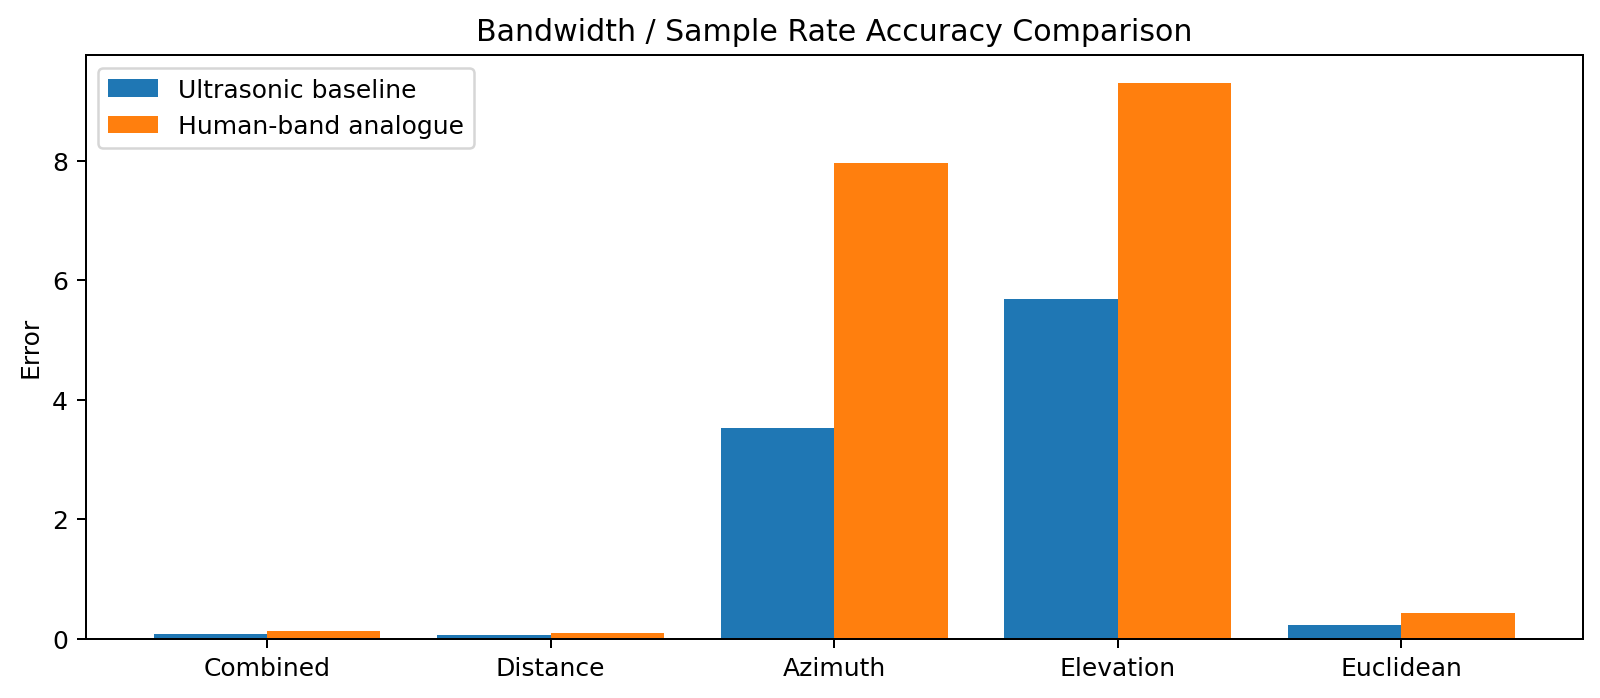
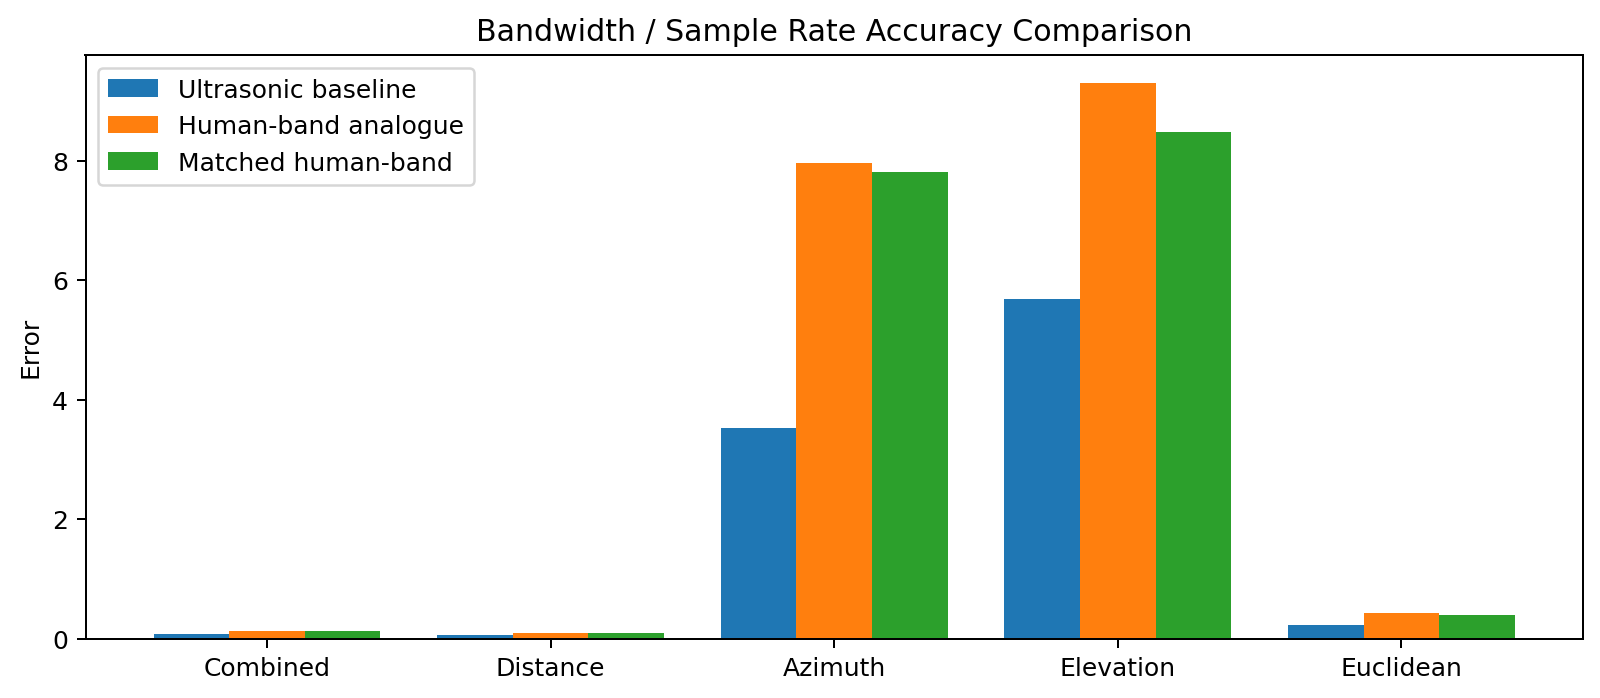
human based cochlea

diff --git a/stages/cochlea_explained.py b/stages/cochlea_explained.py
@@ -242,13 +242,35 @@ def _human_band_config(base: GlobalConfig) -> GlobalConfig:
     return GlobalConfig(**payload)
 
 
-def _run_human_band_system_experiment(base_config: GlobalConfig, outputs: OutputPaths, figure_dir: Path) -> dict:
-    result_path = figure_dir / "human_band_experiment.json"
+def _matched_human_band_config(base: GlobalConfig) -> GlobalConfig:
+    payload = {**base.__dict__}
+    payload.update(
+        {
+            "sample_rate_hz": 64_000,
+            "chirp_start_hz": 18_000.0,
+            "chirp_end_hz": 2_000.0,
+            "cochlea_low_hz": 2_000.0,
+            "cochlea_high_hz": 20_000.0,
+        }
+    )
+    return GlobalConfig(**payload)
+
+
+def _run_band_system_experiment(
+    band_config: GlobalConfig,
+    outputs: OutputPaths,
+    figure_dir: Path,
+    *,
+    result_name: str,
+    signal_name: str,
+    cochlea_name: str,
+    title_prefix: str,
+) -> dict:
+    result_path = figure_dir / result_name
     if result_path.exists():
         return json.loads(result_path.read_text(encoding="utf-8"))
 
-    human_config = _human_band_config(base_config)
-    context = StageContext(config=human_config, device=torch.device("cpu"), outputs=outputs)
+    context = StageContext(config=band_config, device=torch.device("cpu"), outputs=outputs)
     params, baseline_label = _baseline_reference_params(context)
     spec = _combined_all_spec()
     training_config = EnhancedTrainingConfig(
@@ -258,7 +280,7 @@ def _run_human_band_system_experiment(base_config: GlobalConfig, outputs: Output
         scheduler_patience=3,
     )
 
-    seed_everything(human_config.seed)
+    seed_everything(band_config.seed)
     prep_start = time.perf_counter()
     data, prep_profile = _prepare_profiled_experiment_data(context, params, training_config.dataset_mode)
     target_bundle = _prepare_target_bundle(data)
@@ -291,8 +313,8 @@ def _run_human_band_system_experiment(base_config: GlobalConfig, outputs: Output
     evaluation_seconds = time.perf_counter() - eval_start
     total_seconds = prep_seconds + training_seconds + evaluation_seconds
 
-    human_example = simulate_echo_batch(
-        human_config,
+    example_batch = simulate_echo_batch(
+        band_config,
         torch.tensor([1.4], device=context.device),
         torch.tensor([18.0], device=context.device),
         torch.tensor([12.0], device=context.device),
@@ -300,51 +322,51 @@ def _run_human_band_system_experiment(base_config: GlobalConfig, outputs: Output
         add_noise=False,
         include_elevation_cues=True,
     )
-    human_filter_stages = cochlea_filterbank_stages(
-        human_example.receive[0, 0].unsqueeze(0),
-        sample_rate_hz=human_config.sample_rate_hz,
-        num_channels=human_config.num_cochlea_channels,
-        low_hz=human_config.cochlea_low_hz,
-        high_hz=human_config.cochlea_high_hz,
-        filter_bandwidth_sigma=human_config.filter_bandwidth_sigma,
-        envelope_lowpass_hz=human_config.envelope_lowpass_hz,
-        downsample=human_config.envelope_downsample,
+    filter_stages = cochlea_filterbank_stages(
+        example_batch.receive[0, 0].unsqueeze(0),
+        sample_rate_hz=band_config.sample_rate_hz,
+        num_channels=band_config.num_cochlea_channels,
+        low_hz=band_config.cochlea_low_hz,
+        high_hz=band_config.cochlea_high_hz,
+        filter_bandwidth_sigma=band_config.filter_bandwidth_sigma,
+        envelope_lowpass_hz=band_config.envelope_lowpass_hz,
+        downsample=band_config.envelope_downsample,
     )
-    human_lif = lif_encode_stages(
-        human_filter_stages["cochleagram"],
-        threshold=human_config.spike_threshold,
-        beta=human_config.spike_beta,
+    lif_stages = lif_encode_stages(
+        filter_stages["cochleagram"],
+        threshold=band_config.spike_threshold,
+        beta=band_config.spike_beta,
     )
-    human_start_ms = float(human_example.delays_s[0, 0].item() * 1_000.0)
-    human_end_ms = human_start_ms + human_config.chirp_duration_s * 1_000.0
-    human_xlim_ms = (
-        max(0.0, human_start_ms - 1.0),
-        min(human_config.signal_duration_s * 1_000.0, human_end_ms + 1.0),
+    echo_start_ms = float(example_batch.delays_s[0, 0].item() * 1_000.0)
+    echo_end_ms = echo_start_ms + band_config.chirp_duration_s * 1_000.0
+    xlim_ms = (
+        max(0.0, echo_start_ms - 1.0),
+        min(band_config.signal_duration_s * 1_000.0, echo_end_ms + 1.0),
     )
     save_waveform_and_spectrogram(
-        human_example.receive[0, 0],
-        human_config.sample_rate_hz,
-        figure_dir / "human_example_signal.png",
-        "Human-Band Example Receive Waveform And Spectrogram",
+        example_batch.receive[0, 0],
+        band_config.sample_rate_hz,
+        figure_dir / signal_name,
+        f"{title_prefix} Receive Waveform And Spectrogram",
     )
     save_cochlea_plot(
-        human_filter_stages["cochleagram"][0],
-        human_lif["spikes"][0],
-        human_config.envelope_rate_hz,
-        figure_dir / "human_cochleagram_spikes.png",
-        "Human-Band Cochleagram And Spike Raster",
-        xlim_ms=human_xlim_ms,
+        filter_stages["cochleagram"][0],
+        lif_stages["spikes"][0],
+        band_config.envelope_rate_hz,
+        figure_dir / cochlea_name,
+        f"{title_prefix} Cochleagram And Spike Raster",
+        xlim_ms=xlim_ms,
     )
 
     result = {
         "baseline_label": baseline_label,
         "config": {
-            "sample_rate_hz": human_config.sample_rate_hz,
-            "chirp_start_hz": human_config.chirp_start_hz,
-            "chirp_end_hz": human_config.chirp_end_hz,
-            "cochlea_low_hz": human_config.cochlea_low_hz,
-            "cochlea_high_hz": human_config.cochlea_high_hz,
-            "envelope_rate_hz": human_config.envelope_rate_hz,
+            "sample_rate_hz": band_config.sample_rate_hz,
+            "chirp_start_hz": band_config.chirp_start_hz,
+            "chirp_end_hz": band_config.chirp_end_hz,
+            "cochlea_low_hz": band_config.cochlea_low_hz,
+            "cochlea_high_hz": band_config.cochlea_high_hz,
+            "envelope_rate_hz": band_config.envelope_rate_hz,
         },
         "training_config": {
             "dataset_mode": training_config.dataset_mode,
@@ -370,12 +392,36 @@ def _run_human_band_system_experiment(base_config: GlobalConfig, outputs: Output
         "val_metrics": {key: format_float(value) for key, value in val_eval.metrics.items()},
         "test_metrics": {key: format_float(value) for key, value in test_eval.metrics.items()},
         "artifacts": {
-            "human_example_signal": str(figure_dir / "human_example_signal.png"),
-            "human_cochleagram_spikes": str(figure_dir / "human_cochleagram_spikes.png"),
+            "example_signal": str(figure_dir / signal_name),
+            "cochleagram_spikes": str(figure_dir / cochlea_name),
         },
     }
     save_json(result_path, result)
     return result
+
+
+def _run_human_band_system_experiment(base_config: GlobalConfig, outputs: OutputPaths, figure_dir: Path) -> dict:
+    return _run_band_system_experiment(
+        _human_band_config(base_config),
+        outputs,
+        figure_dir,
+        result_name="human_band_experiment.json",
+        signal_name="human_example_signal.png",
+        cochlea_name="human_cochleagram_spikes.png",
+        title_prefix="Human-Band Example",
+    )
+
+
+def _run_matched_human_band_system_experiment(base_config: GlobalConfig, outputs: OutputPaths, figure_dir: Path) -> dict:
+    return _run_band_system_experiment(
+        _matched_human_band_config(base_config),
+        outputs,
+        figure_dir,
+        result_name="human_matched_band_experiment.json",
+        signal_name="human_matched_example_signal.png",
+        cochlea_name="human_matched_cochleagram_spikes.png",
+        title_prefix="Matched Human-Band Example",
+    )
 
 
 def run_cochlea_explained(config: GlobalConfig, outputs: OutputPaths) -> dict[str, str]:
@@ -475,6 +521,7 @@ def run_cochlea_explained(config: GlobalConfig, outputs: OutputPaths) -> dict[st
 
     baseline_system_result = _load_saved_round2_combined_baseline(outputs)
     human_band_result = _run_human_band_system_experiment(config, outputs, figure_dir)
+    matched_human_band_result = _run_matched_human_band_system_experiment(config, outputs, figure_dir)
     save_grouped_bar_chart(
         ["Prep", "Training", "Evaluation", "Total"],
         {
@@ -489,6 +536,12 @@ def run_cochlea_explained(config: GlobalConfig, outputs: OutputPaths) -> dict[st
                 float(human_band_result["timings"]["training_seconds"]),
                 float(human_band_result["timings"]["evaluation_seconds"]),
                 float(human_band_result["timings"]["total_seconds"]),
+            ],
+            "Matched human-band": [
+                float(matched_human_band_result["timings"]["data_prep_seconds"]),
+                float(matched_human_band_result["timings"]["training_seconds"]),
+                float(matched_human_band_result["timings"]["evaluation_seconds"]),
+                float(matched_human_band_result["timings"]["total_seconds"]),
             ],
         },
         figure_dir / "bandwidth_runtime_comparison.png",
@@ -512,6 +565,13 @@ def run_cochlea_explained(config: GlobalConfig, outputs: OutputPaths) -> dict[st
                 float(human_band_result["test_metrics"]["elevation_mae_deg"]),
                 float(human_band_result["test_metrics"]["euclidean_error_m"]),
             ],
+            "Matched human-band": [
+                float(matched_human_band_result["test_metrics"]["combined_error"]),
+                float(matched_human_band_result["test_metrics"]["distance_mae_m"]),
+                float(matched_human_band_result["test_metrics"]["azimuth_mae_deg"]),
+                float(matched_human_band_result["test_metrics"]["elevation_mae_deg"]),
+                float(matched_human_band_result["test_metrics"]["euclidean_error_m"]),
+            ],
         },
         figure_dir / "bandwidth_accuracy_comparison.png",
         "Bandwidth / Sample Rate Accuracy Comparison",
@@ -528,6 +588,18 @@ def run_cochlea_explained(config: GlobalConfig, outputs: OutputPaths) -> dict[st
     )
     training_speedup = float(baseline_system_result["timings"]["training_seconds"]) / max(
         float(human_band_result["timings"]["training_seconds"]),
+        1e-6,
+    )
+    matched_runtime_speedup = float(baseline_system_result["timings"]["total_seconds"]) / max(
+        float(matched_human_band_result["timings"]["total_seconds"]),
+        1e-6,
+    )
+    matched_prep_speedup = float(baseline_system_result["timings"]["data_prep_seconds"]) / max(
+        float(matched_human_band_result["timings"]["data_prep_seconds"]),
+        1e-6,
+    )
+    matched_training_speedup = float(baseline_system_result["timings"]["training_seconds"]) / max(
+        float(matched_human_band_result["timings"]["training_seconds"]),
         1e-6,
     )
 
@@ -633,8 +705,10 @@ def run_cochlea_explained(config: GlobalConfig, outputs: OutputPaths) -> dict[st
         "Protocol:",
         "- Ultrasonic baseline: saved short-data round-2 combined-all result using the existing `20 kHz to 90 kHz` cochlea, `80 kHz to 20 kHz` chirp, and `256 kHz` sample rate.",
         "- Human-band analogue: fresh rerun of the same short-data combined-all model with cochlea range `20 Hz to 20 kHz`, sample rate `64 kHz`, and a practical downward FM chirp `18 kHz to 2 kHz`.",
+        "- Matched human-band analogue: second fresh rerun with the same `64 kHz` sample rate and `18 kHz to 2 kHz` chirp, but with the cochlea restricted to the active signal band `2 kHz to 20 kHz`.",
         "- The lower chirp edge was not set literally to `20 Hz` because a `3 ms` chirp cannot meaningfully encode 20 Hz content; one 20 Hz period is `50 ms`.",
         "- Same dataset size and training budget: `700 / 150 / 150`, `10` epochs, one thread, no Optuna retuning.",
+        "- The original wide human-band result is retained below for comparison; the new matched-band result is additional.",
         "",
         "Runtime comparison:",
         f"- Ultrasonic baseline total: `{float(baseline_system_result['timings']['total_seconds']):.2f} s`",
@@ -642,24 +716,34 @@ def run_cochlea_explained(config: GlobalConfig, outputs: OutputPaths) -> dict[st
         f"- Overall speedup: `{runtime_speedup:.2f}x`",
         f"- Prep speedup: `{prep_speedup:.2f}x`",
         f"- Training speedup: `{training_speedup:.2f}x`",
+        f"- Matched human-band total: `{float(matched_human_band_result['timings']['total_seconds']):.2f} s`",
+        f"- Matched overall speedup: `{matched_runtime_speedup:.2f}x`",
+        f"- Matched prep speedup: `{matched_prep_speedup:.2f}x`",
+        f"- Matched training speedup: `{matched_training_speedup:.2f}x`",
         "",
         "Accuracy comparison:",
         f"- Ultrasonic combined error: `{float(baseline_system_result['test_metrics']['combined_error']):.4f}`",
         f"- Human-band combined error: `{float(human_band_result['test_metrics']['combined_error']):.4f}`",
+        f"- Matched human-band combined error: `{float(matched_human_band_result['test_metrics']['combined_error']):.4f}`",
         f"- Ultrasonic distance / azimuth / elevation: `{float(baseline_system_result['test_metrics']['distance_mae_m']):.4f} m`, `{float(baseline_system_result['test_metrics']['azimuth_mae_deg']):.4f} deg`, `{float(baseline_system_result['test_metrics']['elevation_mae_deg']):.4f} deg`",
         f"- Human-band distance / azimuth / elevation: `{float(human_band_result['test_metrics']['distance_mae_m']):.4f} m`, `{float(human_band_result['test_metrics']['azimuth_mae_deg']):.4f} deg`, `{float(human_band_result['test_metrics']['elevation_mae_deg']):.4f} deg`",
+        f"- Matched human-band distance / azimuth / elevation: `{float(matched_human_band_result['test_metrics']['distance_mae_m']):.4f} m`, `{float(matched_human_band_result['test_metrics']['azimuth_mae_deg']):.4f} deg`, `{float(matched_human_band_result['test_metrics']['elevation_mae_deg']):.4f} deg`",
         f"- Ultrasonic Euclidean error: `{float(baseline_system_result['test_metrics']['euclidean_error_m']):.4f} m`",
         f"- Human-band Euclidean error: `{float(human_band_result['test_metrics']['euclidean_error_m']):.4f} m`",
+        f"- Matched human-band Euclidean error: `{float(matched_human_band_result['test_metrics']['euclidean_error_m']):.4f} m`",
         "",
         "Interpretation:",
         "- This is not only a cochlea-bandwidth change. It also reduces raw waveform sampling resolution and moves the chirp into a much lower carrier band.",
         "- The comparison therefore measures the practical effect of a lower-bandwidth, lower-sample-rate auditory front end on the full localisation stack.",
-        "- Because the downstream model was not retuned for the human-band configuration, the result should be treated as a direct transfer test rather than an optimized redesign.",
+        "- The matched human-band variant specifically tests whether excluding irrelevant sub-2 kHz channels helps once the signal itself only occupies `2 kHz to 18 kHz`.",
+        "- Because the downstream model was not retuned for either human-band configuration, both should be treated as direct transfer tests rather than optimized redesigns.",
         "",
         "![Bandwidth runtime comparison](cochlea_explained/bandwidth_runtime_comparison.png)",
         "![Bandwidth accuracy comparison](cochlea_explained/bandwidth_accuracy_comparison.png)",
         "![Human-band example signal](cochlea_explained/human_example_signal.png)",
         "![Human-band cochleagram](cochlea_explained/human_cochleagram_spikes.png)",
+        "![Matched human-band example signal](cochlea_explained/human_matched_example_signal.png)",
+        "![Matched human-band cochleagram](cochlea_explained/human_matched_cochleagram_spikes.png)",
     ]
     report_path = outputs.root / "cochlea_explained.md"
     report_path.write_text("\n".join(report_lines) + "\n", encoding="utf-8")

diff --git a/utils/common.py b/utils/common.py
@@ -20,6 +20,7 @@ os.environ.setdefault("XDG_CACHE_HOME", "outputs/.cache")
 import matplotlib
 matplotlib.use("Agg")
 import matplotlib.pyplot as plt
+from matplotlib.ticker import FuncFormatter
 import numpy as np
 import torch
 
@@ -215,15 +216,33 @@ def save_waveform_and_spectrogram(
 ) -> None:
     waveform = _to_numpy(signal)
     time_axis_ms = np.arange(waveform.shape[-1]) / sample_rate_hz * 1_000.0
-    nfft = min(256, max(32, int(waveform.shape[-1])))
-    noverlap = min(192, max(0, nfft // 2))
+    signal_duration_s = waveform.shape[-1] / max(sample_rate_hz, 1)
+    target_window_s = min(0.0010, max(0.0005, signal_duration_s / 32.0))
+    desired_window_samples = max(32, int(round(sample_rate_hz * target_window_s)))
+    if desired_window_samples >= waveform.shape[-1]:
+        nfft = max(32, min(int(waveform.shape[-1]), desired_window_samples))
+    else:
+        nfft = 1 << int(math.ceil(math.log2(desired_window_samples)))
+        nfft = min(nfft, int(waveform.shape[-1]))
+    noverlap = min(nfft - 1, max(0, int(round(0.875 * nfft))))
+    pad_to = max(256, 4 * nfft)
     fig, axes = plt.subplots(2, 1, figsize=(10, 6))
     axes[0].plot(time_axis_ms, waveform, linewidth=1.0)
     axes[0].set_title(title)
     axes[0].set_xlabel("Time (ms)")
     axes[0].set_ylabel("Amplitude")
-    axes[1].specgram(waveform, Fs=sample_rate_hz, NFFT=nfft, noverlap=noverlap, cmap="magma")
-    axes[1].set_xlabel("Time (s)")
+    _, _, _, image = axes[1].specgram(
+        waveform,
+        Fs=sample_rate_hz,
+        NFFT=nfft,
+        noverlap=noverlap,
+        pad_to=pad_to,
+        cmap="magma",
+    )
+    if hasattr(image, "set_interpolation"):
+        image.set_interpolation("bilinear")
+    axes[1].xaxis.set_major_formatter(FuncFormatter(lambda value, _: f"{value * 1_000.0:.1f}"))
+    axes[1].set_xlabel("Time (ms)")
     axes[1].set_ylabel("Frequency (Hz)")
     _finalize_figure(path)
 

diff --git a/outputs/cochlea_explained.md b/outputs/cochlea_explained.md
@@ -99,8 +99,10 @@ This comparison tests the effect of lowering the acoustic and cochlear bandwidth
 Protocol:
 - Ultrasonic baseline: saved short-data round-2 combined-all result using the existing `20 kHz to 90 kHz` cochlea, `80 kHz to 20 kHz` chirp, and `256 kHz` sample rate.
 - Human-band analogue: fresh rerun of the same short-data combined-all model with cochlea range `20 Hz to 20 kHz`, sample rate `64 kHz`, and a practical downward FM chirp `18 kHz to 2 kHz`.
+- Matched human-band analogue: second fresh rerun with the same `64 kHz` sample rate and `18 kHz to 2 kHz` chirp, but with the cochlea restricted to the active signal band `2 kHz to 20 kHz`.
 - The lower chirp edge was not set literally to `20 Hz` because a `3 ms` chirp cannot meaningfully encode 20 Hz content; one 20 Hz period is `50 ms`.
 - Same dataset size and training budget: `700 / 150 / 150`, `10` epochs, one thread, no Optuna retuning.
+- The original wide human-band result is retained below for comparison; the new matched-band result is additional.
 
 Runtime comparison:
 - Ultrasonic baseline total: `1115.77 s`
@@ -108,21 +110,31 @@ Runtime comparison:
 - Overall speedup: `7.78x`
 - Prep speedup: `20.68x`
 - Training speedup: `7.05x`
+- Matched human-band total: `142.92 s`
+- Matched overall speedup: `7.81x`
+- Matched prep speedup: `29.47x`
+- Matched training speedup: `6.95x`
 
 Accuracy comparison:
 - Ultrasonic combined error: `0.0789`
 - Human-band combined error: `0.1288`
+- Matched human-band combined error: `0.1221`
 - Ultrasonic distance / azimuth / elevation: `0.0636 m`, `3.5316 deg`, `5.6846 deg`
 - Human-band distance / azimuth / elevation: `0.0890 m`, `7.9520 deg`, `9.2961 deg`
+- Matched human-band distance / azimuth / elevation: `0.0946 m`, `7.8027 deg`, `8.4785 deg`
 - Ultrasonic Euclidean error: `0.2332 m`
 - Human-band Euclidean error: `0.4231 m`
+- Matched human-band Euclidean error: `0.3964 m`
 
 Interpretation:
 - This is not only a cochlea-bandwidth change. It also reduces raw waveform sampling resolution and moves the chirp into a much lower carrier band.
 - The comparison therefore measures the practical effect of a lower-bandwidth, lower-sample-rate auditory front end on the full localisation stack.
-- Because the downstream model was not retuned for the human-band configuration, the result should be treated as a direct transfer test rather than an optimized redesign.
+- The matched human-band variant specifically tests whether excluding irrelevant sub-2 kHz channels helps once the signal itself only occupies `2 kHz to 18 kHz`.
+- Because the downstream model was not retuned for either human-band configuration, both should be treated as direct transfer tests rather than optimized redesigns.
 
 ![Bandwidth runtime comparison](cochlea_explained/bandwidth_runtime_comparison.png)
 ![Bandwidth accuracy comparison](cochlea_explained/bandwidth_accuracy_comparison.png)
 ![Human-band example signal](cochlea_explained/human_example_signal.png)
 ![Human-band cochleagram](cochlea_explained/human_cochleagram_spikes.png)
+![Matched human-band example signal](cochlea_explained/human_matched_example_signal.png)
+![Matched human-band cochleagram](cochlea_explained/human_matched_cochleagram_spikes.png)
